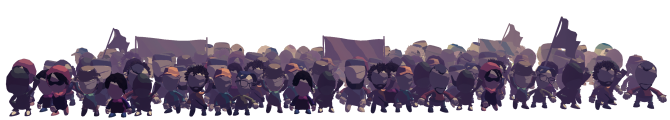
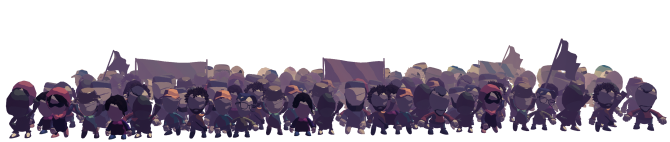
followers crowd images replacement

diff --git a/public/tsquare/js/game/sky_line.js b/public/tsquare/js/game/sky_line.js
@@ -16,11 +16,13 @@ var SkyLine = Class.create({
       var self = this
       var background_sky = new Background(this.scene, {speed : function(){return  self.scene.direction*(0)}, y: 0, imagesCount: 15, images:images_sky, offsetX:0});
       var background_clowd = new Background(this.scene, {speed : function(){return  self.scene.direction * self.scene.currentSpeed + 3 }, y: 0, imagesCount: 3, images:images_clowd, offsetX:0, alwaysMove : true});
-      var background_layer2 = new Background(this.scene, {speed : function(){return  self.scene.direction*(self.scene.currentSpeed-2)}, y: -5, imagesCount: 2, images:images_layer2})
-      var background_layer1 = new Background(this.scene, {speed : function(){return  self.scene.direction*(self.scene.currentSpeed-1)}, y: 0, imagesCount: 2, images:images_layer1})
+      var background_layer2 = new Background(this.scene, {speed : function(){return  self.scene.direction*(self.scene.currentSpeed-2)}, y: 15, imagesCount: 2, images:images_layer2})
       
       var background_road = new Background(this.scene, {speed : function(){return  self.scene.direction*(self.scene.currentSpeed)}, y: 340, imagesCount: 2, offsetX:0, images:images_road})
-      var background_crowd = new Background(this.scene, {speed : function(){return  self.scene.direction*(self.scene.currentSpeed)}, y: 250, imagesCount: 2, images:images_crowd, offsetX:0});
+
+      var background_layer1 = new Background(this.scene, {speed : function(){return  self.scene.direction*(self.scene.currentSpeed-1)}, y: -10, imagesCount: 2, images:images_layer1})
+
+      var background_crowd = new Background(this.scene, {speed : function(){return  self.scene.direction*(self.scene.currentSpeed-1)}, y: 228, imagesCount: 4, images:images_crowd, offsetX:0});
       var background_fence = new Background(this.scene, {speed : function(){return  self.scene.direction*(self.scene.currentSpeed)}, y: 350, imagesCount: 14, images:images_fence})
       var background_lamp = new Background(this.scene, {speed : function(){return  self.scene.direction*(self.scene.currentSpeed)}, y: 200, imagesCount: 3, images:images_lamp})
       
